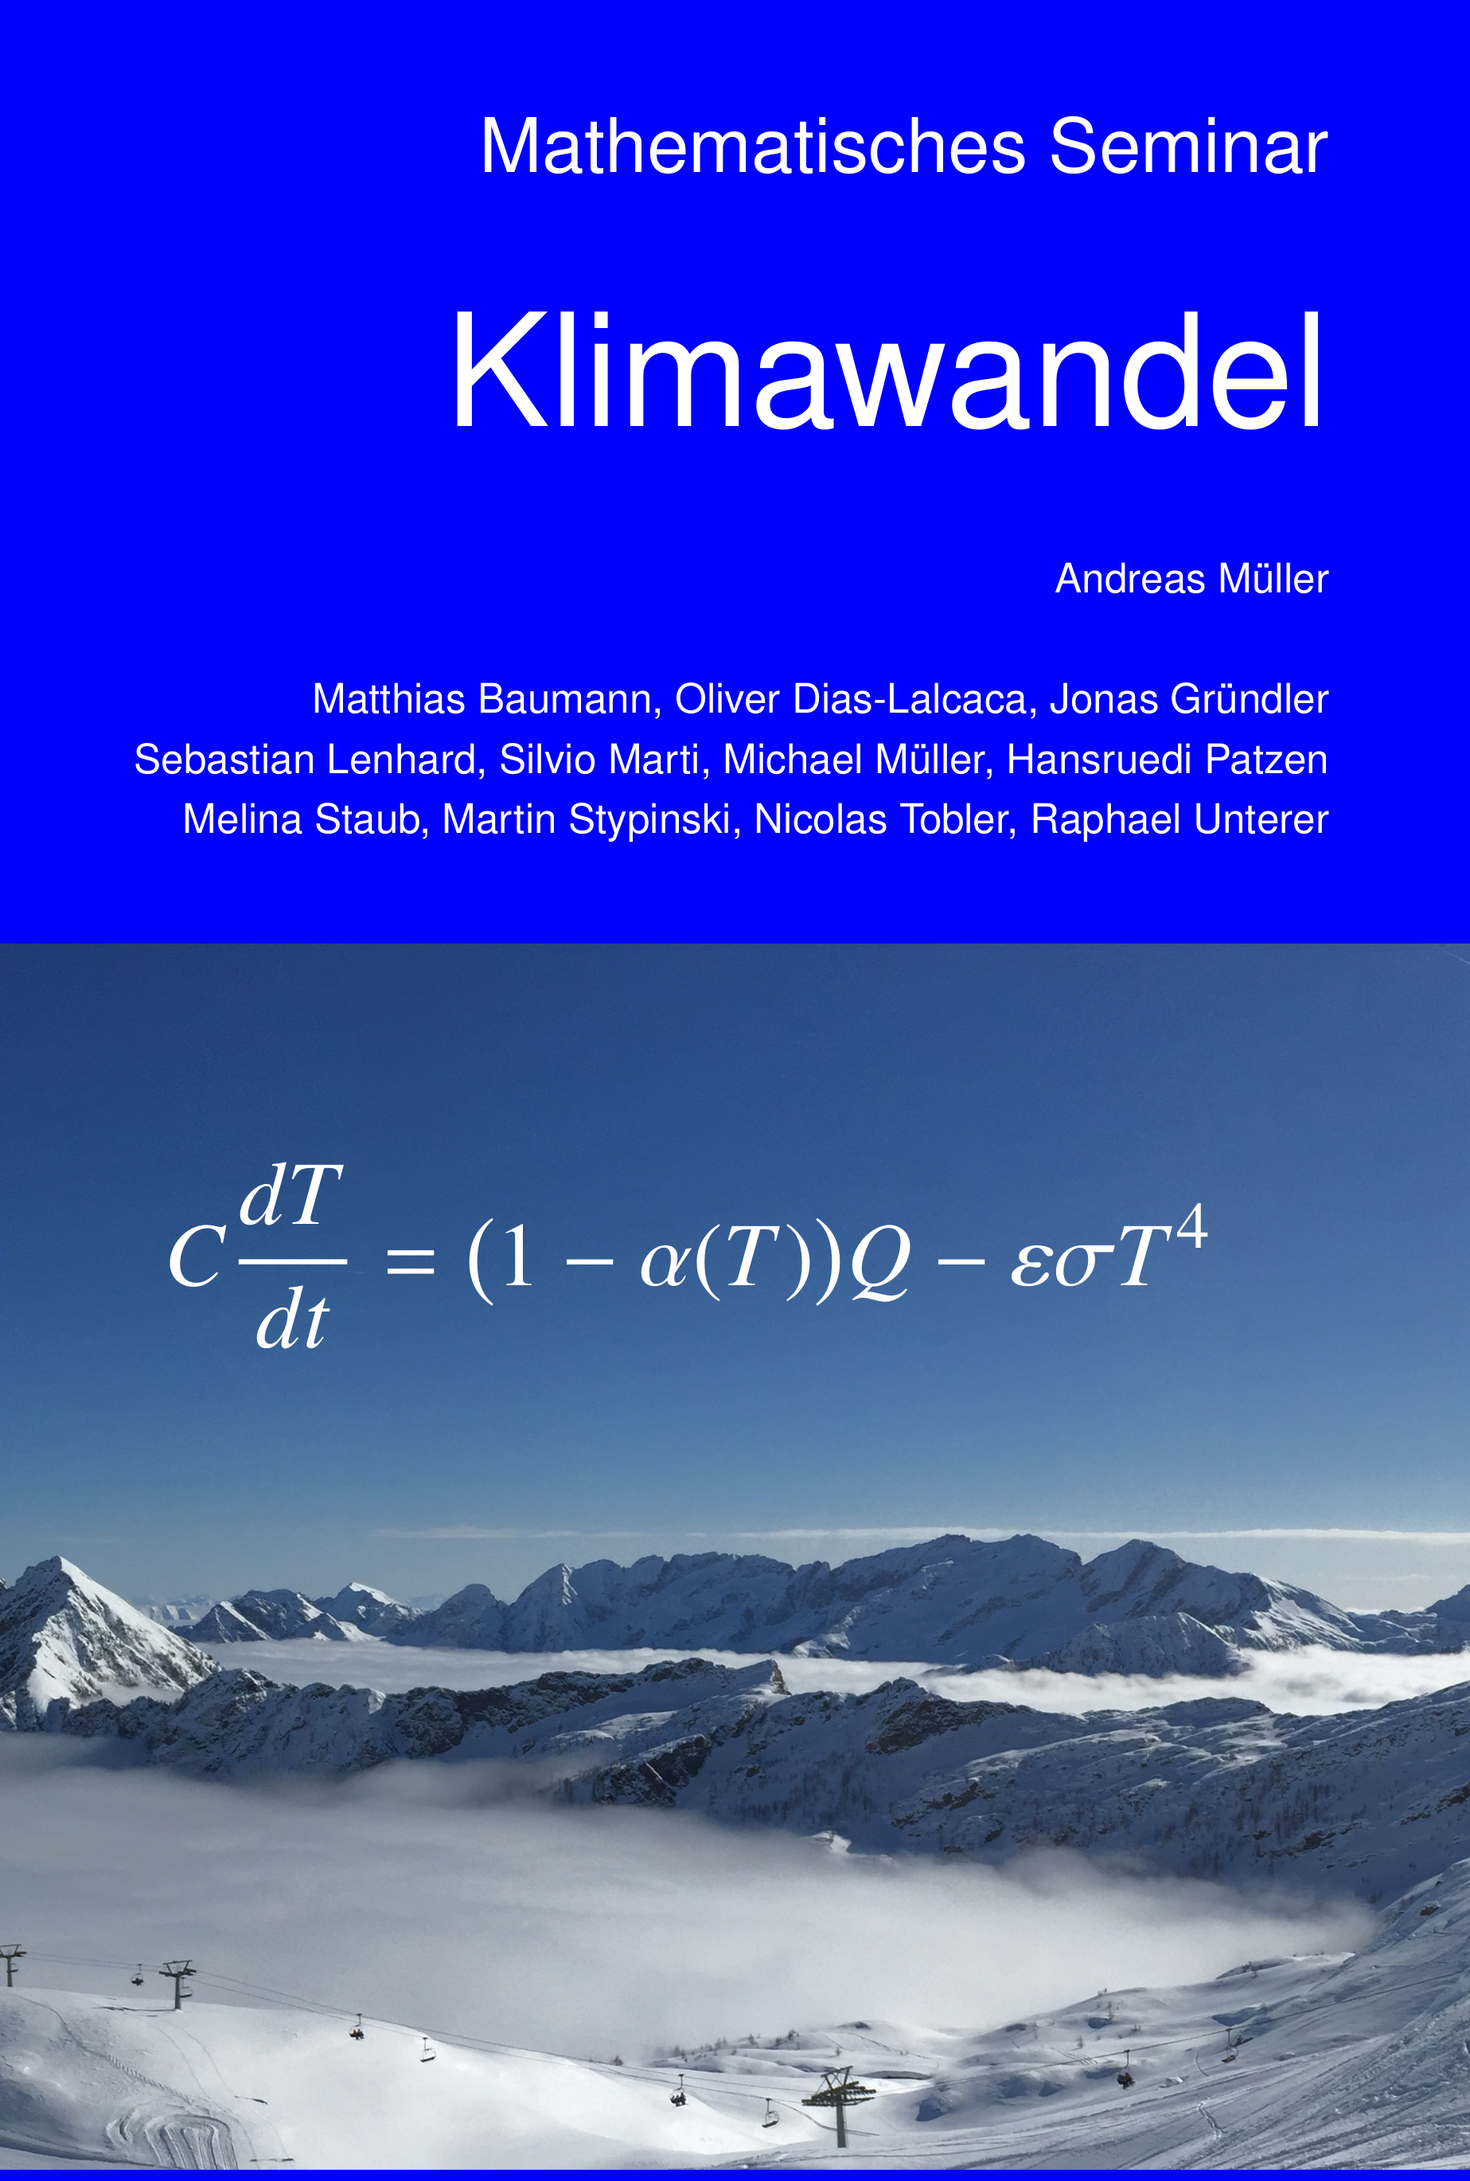
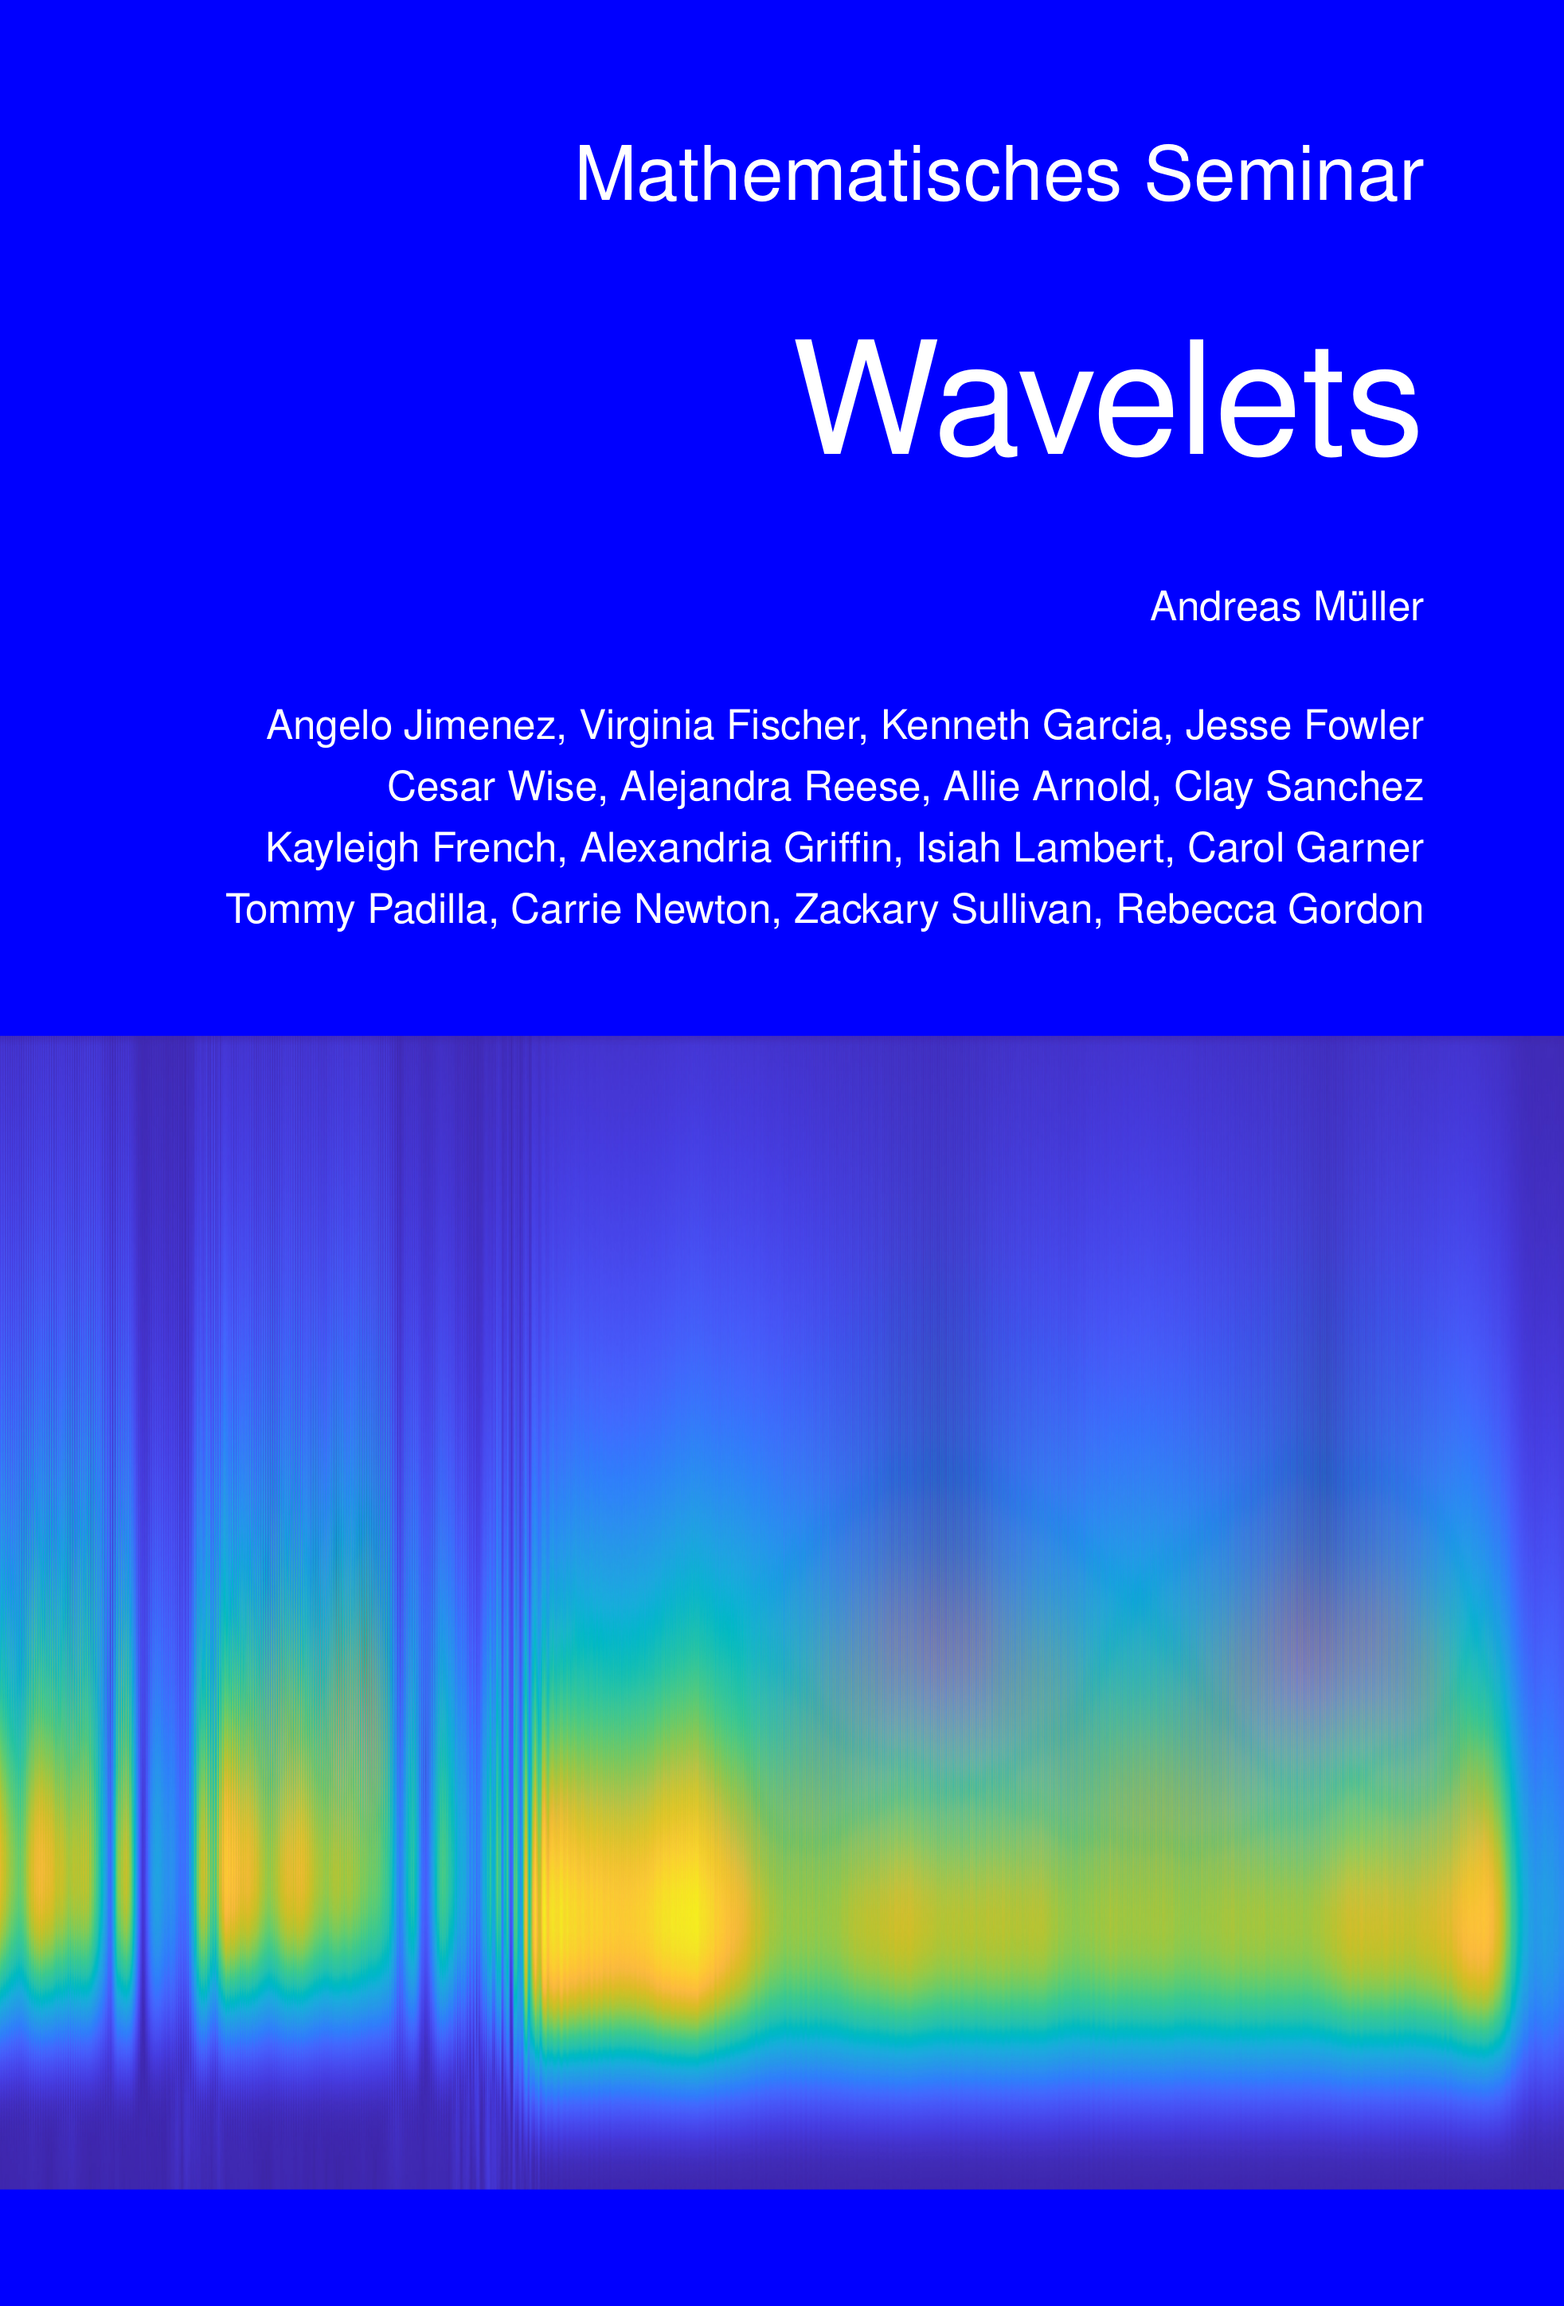
Wavelets Anschlag

diff --git a/anschlag/wavelets.tex b/anschlag/wavelets.tex
@@ -11,7 +11,7 @@
 \title[]{}
 \begin{document}
 \begin{frame}
-\frametitle{MathSem 2018: Klimawandel}
+\frametitle{MathSem 2019: Wavelets}
 \begin{columns}[onlytextwidth]
 \begin{column}{0.32\textwidth}
 {\bf\large Das Buch zum Seminar}
@@ -22,37 +22,37 @@
 %\bigskip
 %\bigskip
 %\bigskip
-Erscheint im September 2018.
+Erscheint im Sommer 2019.
 Anfragen an
-Prof.~Dr.~Andreas M"uller,
+Prof.~Dr.~Andreas Müller,
 {\texttt{andreas.mueller@hsr.ch}}
 \end{column}
 \begin{column}{0.63\textwidth}
 \begin{description}
 \item[Teil 1:] Grundlagen
 \begin{enumerate}
-\item Wetter und Klima
-\item Differentialgleichungen
-\item Fluiddynamik
-\item Thermohaline Zirkulation
-\item Zonenmodelle
-\item Fourier-Analysis
-\item El Niño Southern Oscillation
-\item Datenassimilation
+\item 
+\item 
+\item 
+\item 
+\item 
+\item 
+\item 
+\item 
 \end{enumerate}
 \item[Teil 2:] Anwendungen und weiterführende Themen
 \begin{enumerate}
 \setcounter{enumi}{8}
-\item Matthias Baumann und Oliver Dias: {\em Lorenz-Attraktor}
-\item Hansruedi Patzen: {\em Höherdimensionales Lorenzsystem}
-\item Martin Stypinski: {\em Machine Learning und Klimamodelle}
-\item Jonas Gründler: {\em 3-Box-Modell der Thermohalinen Zirkulation}
-\item Silvio Marti: {\em Eis}
-\item Raphael Unterer: {\em Numerische Lösung einer verzögerten Differentialgleichung}
-\item Nicolas Tobler: {\em Klima auf anderen Planeten}
-\item Sebastian Lenhard: {\em Achsneigung und Eiszeiten}
-\item Michael Müller: {\em Datenassimilation für das Lorenz-System}
-\item Melina Staub: {\em Extreme Ereignisse}
+\item 
+\item 
+\item 
+\item 
+\item 
+\item 
+\item 
+\item 
+\item 
+\item 
 \end{enumerate}
 \end{description}
 \end{column}
